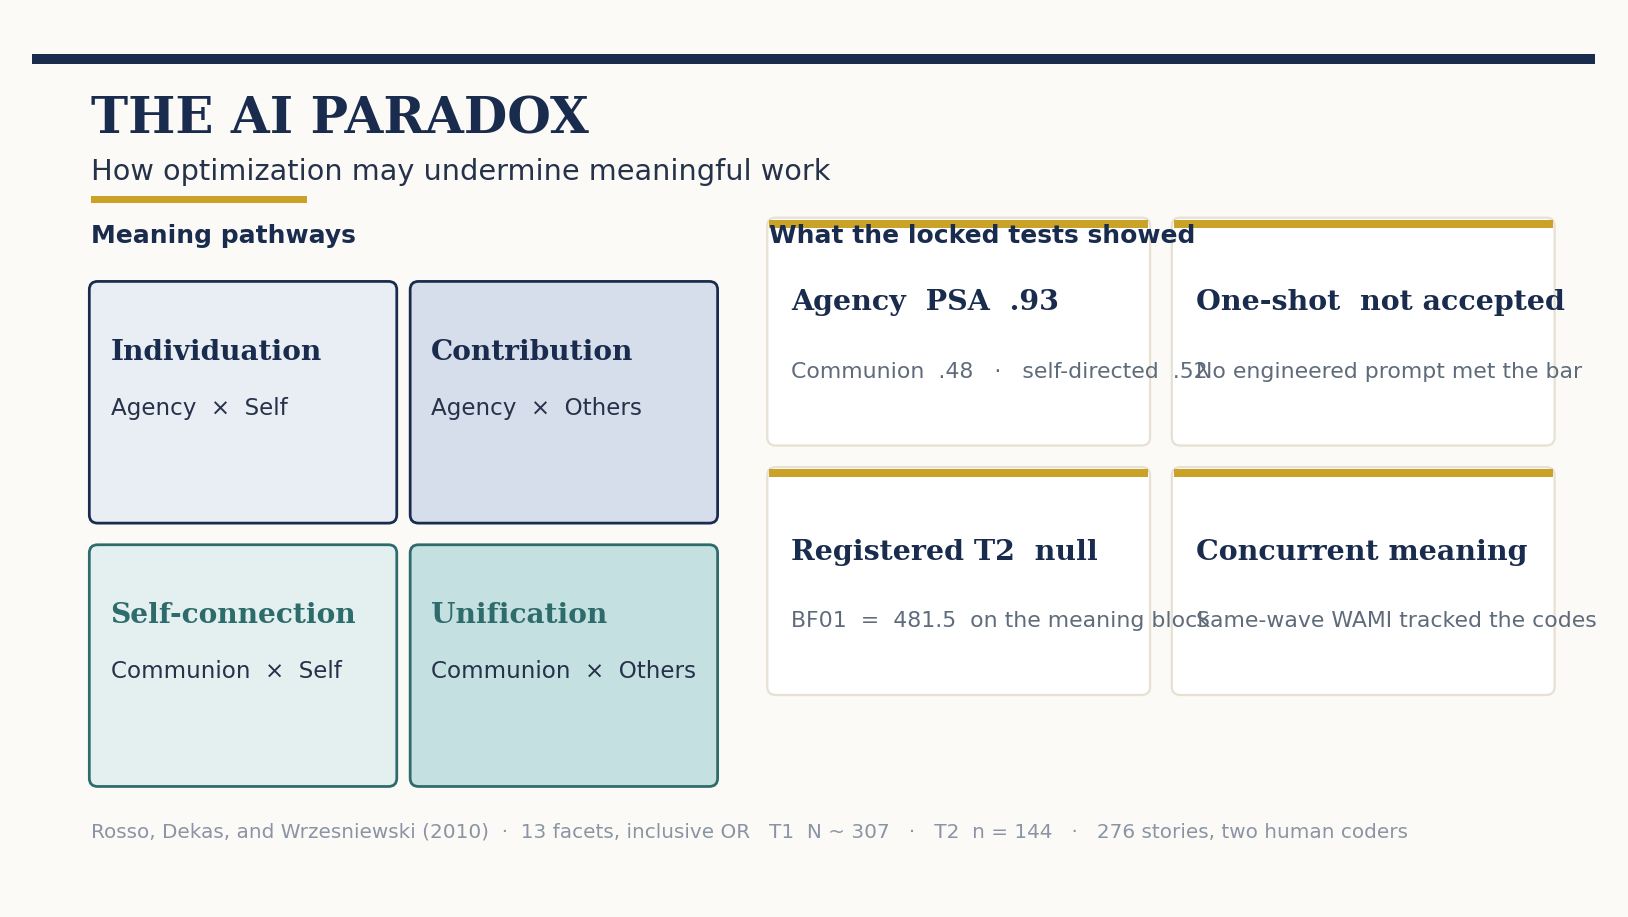
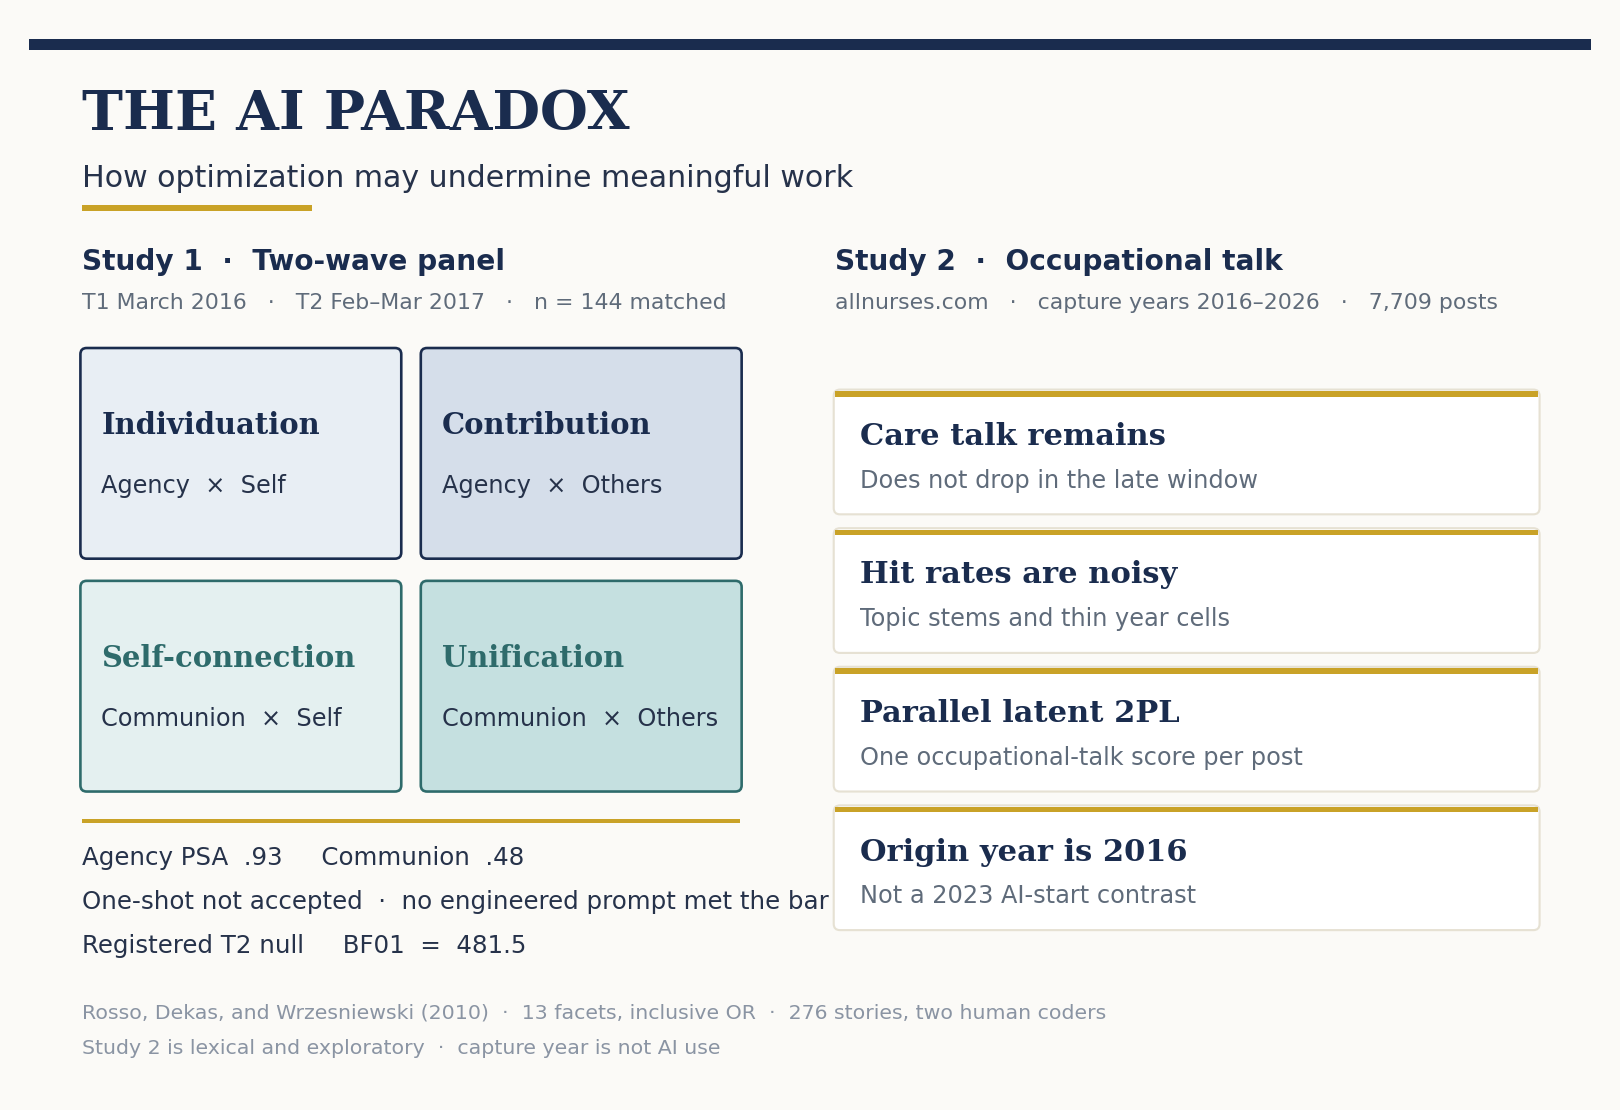
Add a figure to every project card; two-study LEC summary; AIBPS and hyperscaler-race figures

Changed region(s): [[0.0309, 0.3053, 0.9877, 0.9466], [0.0, 0.0305, 0.9877, 0.2748], [0.3704, 0.2443, 0.4321, 0.2748]]

diff --git a/assets/main.scss b/assets/main.scss
@@ -394,6 +394,8 @@ img { max-width: 100%; height: auto; }
   font-size: 0.72rem;
   line-height: 1.4;
   color: var(--muted);
+  overflow-wrap: anywhere;
+  word-break: break-word;
 }
 
 .apa-cite {
@@ -403,6 +405,8 @@ img { max-width: 100%; height: auto; }
   font-size: 0.95rem;
   line-height: 1.5;
   color: var(--ink);
+  overflow-wrap: anywhere;
+  word-break: break-word;
 }
 
 .project-figure {

diff --git a/_make_lec_feature.py b/_make_lec_feature.py
@@ -1,0 +1,147 @@
+"""Two-study summary figure for the LEC 2026 featured-project card."""
+
+from pathlib import Path
+
+import matplotlib
+
+matplotlib.use("Agg")
+import matplotlib.pyplot as plt
+from matplotlib import font_manager
+from matplotlib.patches import FancyBboxPatch, Rectangle
+
+OUT = Path(__file__).resolve().parent / "assets" / "images" / "lec2026-ai-paradox-summary.png"
+
+NAVY = "#1a2c4e"
+INK = "#26324a"
+GOLD = "#c9a227"
+MUTED = "#5f6b7a"
+FAINT = "#8a94a3"
+RULE = "#e6e1d3"
+PAPER = "#fbfaf7"
+SOFT_NAVY = "#e8eef4"
+SOFT_TEAL = "#e4f0f0"
+WHITE = "#ffffff"
+
+SERIF = font_manager.FontProperties(family="DejaVu Serif", weight="bold")
+SANS = font_manager.FontProperties(family="DejaVu Sans")
+SANS_BOLD = font_manager.FontProperties(family="DejaVu Sans", weight="bold")
+
+
+def box(ax, x, y, w, h, face, edge=None, lw=0.9):
+    ax.add_patch(
+        FancyBboxPatch(
+            (x, y),
+            w,
+            h,
+            boxstyle="round,pad=0.01,rounding_size=0.045",
+            facecolor=face,
+            edgecolor=edge or RULE,
+            linewidth=lw,
+        )
+    )
+
+
+def main() -> None:
+    W, H = 11.2, 7.6
+    fig, ax = plt.subplots(figsize=(W, H), dpi=180)
+    fig.patch.set_facecolor(PAPER)
+    ax.set_xlim(0, W)
+    ax.set_ylim(0, H)
+    ax.set_facecolor(PAPER)
+    ax.axis("off")
+    for spine in ax.spines.values():
+        spine.set_visible(False)
+
+    ax.add_patch(Rectangle((0, 7.44), W, 0.08, facecolor=NAVY, edgecolor="none"))
+    ax.text(0.38, 6.98, "THE AI PARADOX", ha="left", va="center",
+            fontsize=22, color=NAVY, fontproperties=SERIF)
+    ax.text(0.38, 6.52, "How optimization may undermine meaningful work",
+            ha="left", va="center", fontsize=12, color=INK, fontproperties=SANS)
+    ax.add_patch(Rectangle((0.38, 6.28), 1.65, 0.045, facecolor=GOLD, edgecolor="none"))
+
+    # Column headers sit well above the cards
+    ax.text(0.38, 5.92, "Study 1  ·  Two-wave panel", ha="left", va="center",
+            fontsize=11.2, color=NAVY, fontproperties=SANS_BOLD)
+    ax.text(0.38, 5.62, "T1 March 2016   ·   T2 Feb–Mar 2017   ·   n = 144 matched",
+            ha="left", va="center", fontsize=8.8, color=MUTED, fontproperties=SANS)
+
+    ax.text(5.78, 5.92, "Study 2  ·  Occupational talk", ha="left", va="center",
+            fontsize=11.2, color=NAVY, fontproperties=SANS_BOLD)
+    ax.text(5.78, 5.62, "allnurses.com   ·   capture years 2016–2026   ·   7,709 posts",
+            ha="left", va="center", fontsize=8.8, color=MUTED, fontproperties=SANS)
+
+    cells = [
+        (0.38, 3.78, SOFT_NAVY, NAVY, "Individuation", "Agency  \u00d7  Self"),
+        (2.82, 3.78, "#d5deea", NAVY, "Contribution", "Agency  \u00d7  Others"),
+        (0.38, 2.10, SOFT_TEAL, "#2e6b6b", "Self-connection", "Communion  \u00d7  Self"),
+        (2.82, 2.10, "#c5e0e0", "#2e6b6b", "Unification", "Communion  \u00d7  Others"),
+    ]
+    for x, y, face, edge, title, sub in cells:
+        box(ax, x, y, 2.28, 1.50, face, edge, lw=1.05)
+        ax.text(x + 0.14, y + 0.96, title, ha="left", va="center",
+                fontsize=11.6, color=edge, fontproperties=SERIF)
+        ax.text(x + 0.14, y + 0.52, sub, ha="left", va="center",
+                fontsize=9.6, color=INK, fontproperties=SANS)
+
+    # Study 1 locked results: sit between the 2x2 and the footer, gold rule above
+    ax.add_patch(Rectangle((0.38, 1.86), 4.72, 0.03, facecolor=GOLD, edgecolor="none"))
+    s1 = [
+        (1.62, "Agency PSA  .93     Communion  .48"),
+        (1.30, "One-shot not accepted  \u00b7  no engineered prompt met the bar"),
+        (0.98, "Registered T2 null     BF01  =  481.5"),
+    ]
+    for y, line in s1:
+        ax.text(0.38, y, line, ha="left", va="center",
+                fontsize=9.8, color=INK, fontproperties=SANS)
+
+    facts = [
+        (4.55, "Care language is still present late in the series"),
+        (3.55, "Hit rates are noisy  ·  topic stems, thin cells"),
+        (2.55, "Parallel 2PL  ·  one latent score per post"),
+        (1.55, "2016 is the origin year  ·  not a 2023 cut"),
+    ]
+    for y, (title, sub) in zip(
+        (4.10, 3.10, 2.10, 1.10),
+        (
+            ("Care talk remains", "Does not drop in the late window"),
+            ("Hit rates are noisy", "Topic stems and thin year cells"),
+            ("Parallel latent 2PL", "One occupational-talk score per post"),
+            ("Origin year is 2016", "Not a 2023 AI-start contrast"),
+        ),
+    ):
+        box(ax, 5.78, y, 5.04, 0.88, WHITE, RULE, lw=0.85)
+        ax.add_patch(Rectangle((5.78, y + 0.84), 5.04, 0.04, facecolor=GOLD, edgecolor="none"))
+        ax.text(5.96, y + 0.56, title, ha="left", va="center",
+                fontsize=12.2, color=NAVY, fontproperties=SERIF)
+        ax.text(5.96, y + 0.24, sub, ha="left", va="center",
+                fontsize=9.6, color=MUTED, fontproperties=SANS)
+
+    ax.text(
+        0.38,
+        0.50,
+        "Rosso, Dekas, and Wrzesniewski (2010)  ·  13 facets, inclusive OR  ·  276 stories, two human coders",
+        ha="left",
+        va="center",
+        fontsize=8.2,
+        color=FAINT,
+        fontproperties=SANS,
+    )
+    ax.text(
+        0.38,
+        0.24,
+        "Study 2 is lexical and exploratory  ·  capture year is not AI use",
+        ha="left",
+        va="center",
+        fontsize=8.2,
+        color=FAINT,
+        fontproperties=SANS,
+    )
+
+    OUT.parent.mkdir(parents=True, exist_ok=True)
+    fig.savefig(OUT, dpi=180, facecolor=PAPER, bbox_inches="tight", pad_inches=0.16)
+    plt.close(fig)
+    print("Wrote", OUT)
+
+
+if __name__ == "__main__":
+    main()

diff --git a/_make_aibps_feature.py b/_make_aibps_feature.py
@@ -1,0 +1,123 @@
+"""Summary figure for the AI Bubble Pressure Score project card."""
+
+from pathlib import Path
+
+import matplotlib
+
+matplotlib.use("Agg")
+import matplotlib.pyplot as plt
+from matplotlib import font_manager
+from matplotlib.patches import FancyArrowPatch, FancyBboxPatch, Rectangle
+
+OUT = Path(__file__).resolve().parent / "assets" / "images" / "aibps-summary.png"
+
+NAVY = "#1a2c4e"
+INK = "#26324a"
+GOLD = "#c9a227"
+MUTED = "#5f6b7a"
+FAINT = "#8a94a3"
+RULE = "#e6e1d3"
+PAPER = "#fbfaf7"
+WHITE = "#ffffff"
+SOFT_NAVY = "#e8eef4"
+SOFT_TEAL = "#e4f0f0"
+
+SERIF = font_manager.FontProperties(family="DejaVu Serif", weight="bold")
+SANS = font_manager.FontProperties(family="DejaVu Sans")
+SANS_BOLD = font_manager.FontProperties(family="DejaVu Sans", weight="bold")
+
+
+def box(ax, x, y, w, h, face, edge=None, lw=0.9):
+    ax.add_patch(
+        FancyBboxPatch(
+            (x, y), w, h,
+            boxstyle="round,pad=0.01,rounding_size=0.045",
+            facecolor=face, edgecolor=edge or RULE, linewidth=lw,
+        )
+    )
+
+
+def main() -> None:
+    W, H = 11.2, 7.6
+    fig, ax = plt.subplots(figsize=(W, H), dpi=180)
+    fig.patch.set_facecolor(PAPER)
+    ax.set_xlim(0, W)
+    ax.set_ylim(0, H)
+    ax.set_facecolor(PAPER)
+    ax.axis("off")
+
+    ax.add_patch(Rectangle((0, 7.44), W, 0.08, facecolor=NAVY, edgecolor="none"))
+    ax.text(0.38, 6.98, "AI BUBBLE PRESSURE SCORE", ha="left", va="center",
+            fontsize=22, color=NAVY, fontproperties=SERIF)
+    ax.text(0.38, 6.52, "How stretched is the AI ecosystem relative to its own history?",
+            ha="left", va="center", fontsize=12, color=INK, fontproperties=SANS)
+    ax.add_patch(Rectangle((0.38, 6.28), 1.65, 0.045, facecolor=GOLD, edgecolor="none"))
+
+    ax.text(0.38, 5.92, "Six pillars  ·  equal weights, configurable", ha="left", va="center",
+            fontsize=11.2, color=NAVY, fontproperties=SANS_BOLD)
+    ax.text(0.38, 5.62, "Each pillar is scaled 0–100 before aggregation",
+            ha="left", va="center", fontsize=8.8, color=MUTED, fontproperties=SANS)
+
+    pillars = [
+        ("Market", "SOXX  ·  QQQ  ·  AI basket", SOFT_NAVY, NAVY),
+        ("Credit", "HY and IG credit spreads", SOFT_NAVY, NAVY),
+        ("Capex", "Hyperscaler and fab cycles", SOFT_NAVY, NAVY),
+        ("Infrastructure", "Power, grid, cooling", SOFT_TEAL, "#2e6b6b"),
+        ("Adoption", "Enterprise and cloud uptake", SOFT_TEAL, "#2e6b6b"),
+        ("Sentiment", "News and text hype", SOFT_TEAL, "#2e6b6b"),
+    ]
+    x0, y_top, w, h, gap = 0.38, 4.30, 2.28, 1.10, 0.16
+    for i, (title, sub, face, edge) in enumerate(pillars):
+        col, row = i % 2, i // 2
+        x = x0 + col * (w + gap)
+        y = y_top - row * (h + gap)
+        box(ax, x, y, w, h, face, edge, lw=1.05)
+        ax.text(x + 0.14, y + 0.70, title, ha="left", va="center",
+                fontsize=11.4, color=edge, fontproperties=SERIF)
+        ax.text(x + 0.14, y + 0.32, sub, ha="left", va="center",
+                fontsize=8.4, color=INK, fontproperties=SANS)
+
+    # Arrow from pillars to the composite
+    ax.add_patch(FancyArrowPatch((5.08, 3.20), (5.66, 3.20),
+                                 arrowstyle="-|>", mutation_scale=16,
+                                 color=MUTED, linewidth=1.2))
+
+    # Right column: pipeline steps
+    ax.text(5.78, 5.92, "From raw series to one composite", ha="left", va="center",
+            fontsize=11.2, color=NAVY, fontproperties=SANS_BOLD)
+    ax.text(5.78, 5.62, "Daily refresh via GitHub Actions  ·  Streamlit dashboard",
+            ha="left", va="center", fontsize=8.8, color=MUTED, fontproperties=SANS)
+
+    steps = [
+        ("Ingest", "yfinance, FRED, manual capex CSVs"),
+        ("Normalize", "Rolling z-scores, percentiles, sigmoid to 0–100"),
+        ("Aggregate", "Weighted mean across pillars, monthly index"),
+        ("Interpret", "Low <30  ·  healthy 30–60  ·  frothy 60–80  ·  critical >80"),
+    ]
+    for y, (title, sub) in zip((4.10, 3.10, 2.10, 1.10), steps):
+        box(ax, 5.78, y, 5.04, 0.88, WHITE, RULE, lw=0.85)
+        ax.add_patch(Rectangle((5.78, y + 0.84), 5.04, 0.04, facecolor=GOLD, edgecolor="none"))
+        ax.text(5.96, y + 0.56, title, ha="left", va="center",
+                fontsize=12.2, color=NAVY, fontproperties=SERIF)
+        ax.text(5.96, y + 0.24, sub, ha="left", va="center",
+                fontsize=9.0, color=MUTED, fontproperties=SANS)
+
+    ax.add_patch(Rectangle((0.38, 1.50), 4.72, 0.03, facecolor=GOLD, edgecolor="none"))
+    ax.text(0.38, 1.24, "Composite reads pressure, not price direction",
+            ha="left", va="center", fontsize=9.8, color=INK, fontproperties=SANS)
+    ax.text(0.38, 0.94, "Reference regimes: fiber 1999  ·  shale 2012  ·  current AI capex cycle",
+            ha="left", va="center", fontsize=9.8, color=INK, fontproperties=SANS)
+
+    ax.text(0.38, 0.40,
+            "Descriptive index, not investment advice  ·  sentiment layer is API-ready with synthetic fallback",
+            ha="left", va="center", fontsize=8.2, color=FAINT, fontproperties=SANS)
+
+    OUT.parent.mkdir(parents=True, exist_ok=True)
+    fig.savefig(OUT, dpi=180, facecolor=PAPER, bbox_inches="tight", pad_inches=0.16)
+    plt.close(fig)
+    print("Wrote", OUT)
+
+
+if __name__ == "__main__":
+    main()
+

diff --git a/projects.md b/projects.md
@@ -21,9 +21,9 @@ Several of these projects extend my research themes in [leadership, well-being, 
 
 <figure class="project-figure">
   <a href="/lec-2026/">
-    <img src="/assets/images/lec2026-ai-paradox-summary.png" alt="Summary figure for The AI Paradox: four Rosso meaning pathways beside locked-test results. Agency positive specific agreement was .93; communion was .48. No engineered prompt met the acceptance bar. The registered Time 2 meaning block favored the null, BF01 = 481.5. Concurrent WAMI tracked the human codes." width="1120" height="620">
+    <img src="/assets/images/lec2026-ai-paradox-summary.png" alt="Summary figure for The AI Paradox. Study 1, two-wave panel: four Rosso meaning pathways; agency positive specific agreement .93, communion .48; no engineered prompt met the acceptance bar; registered Time 2 null, BF01 = 481.5. Study 2, occupational talk on allnurses.com 2016 to 2026, 7,709 posts: care talk remains, hit rates are noisy, parallel latent 2PL score, 2016 origin year." width="1120" height="620">
   </a>
-  <figcaption>Four pathways and the locked tests. Click through to the packet.</figcaption>
+  <figcaption>Study 1 pathways and locked tests beside Study 2 occupational talk, 2016–2026. Click through to the packet.</figcaption>
 </figure>
 
 Board session packet for *Shaping the Future of People Analytics*: how optimization can strip the meaning that keeps helping work staffed, and what it takes to measure that meaning without fooling yourself. Two-wave field study plus a locked language-model coding pipeline. Human codes stayed on the map; no engineered prompt met the acceptance bar; the sealed holdout was not opened.
@@ -42,12 +42,26 @@ A year-over-year, reproducible collection of solutions and teaching cases for th
 
 ### 2026 — Automated Meta-Analytic Coding (team: *One Hot Key*)
 
+<figure class="project-figure">
+  <a href="https://github.com/mjmonnot/siop-ml-competitions/tree/main/2026-meta-analysis">
+    <img src="/assets/images/siop2026-six-gates.png" alt="Six-gate cascading pipeline from the SIOP 2026 presentation: PDF acquisition, layout extraction, regex plus phi4 classifier, vision fallback, structured LLM extraction, imputation." width="1024" height="230">
+  </a>
+  <figcaption>Six gates from PDF to correlation table. Each gate only fires when the cheaper one before it fails.</figcaption>
+</figure>
+
 An end-to-end pipeline that extracts zero-order Pearson *r* correlations directly from published I-O psychology PDFs, using a four-tier cascade (pdfplumber → Docling table ML → qwen2.5-VL vision model → regex + phi4) running entirely on local models. Built as a solo-plus-AI-agents experiment — a one-person team competing against teams of researchers and graduate students. Dev-set MSE **0.013641** (6th of 24); test set submitted April 2026.
 
 🔗 [Project folder →](https://github.com/mjmonnot/siop-ml-competitions/tree/main/2026-meta-analysis) · [SIOP 2026 deck (PDF)](https://github.com/mjmonnot/siop-ml-competitions/blob/main/2026-meta-analysis/docs/one_hot_key_siop_2026.pdf) · [SIOP 2026 presentation video (MP4)](https://github.com/mjmonnot/siop-ml-competitions/raw/main/2026-meta-analysis/media/One_Hot_Key_ML_Competition_Presentation_1080p.mp4)  
 *Relevant resources:* [Docling (document & table extraction)](https://github.com/docling-project/docling) · [PRISMA — systematic review & meta-analysis reporting](https://www.prisma-statement.org/)
 
 ### 2019 — Personality Prediction from Text (Post-Hoc Winning Solution)
+
+<figure class="project-figure">
+  <a href="https://github.com/mjmonnot/siop-ml-competitions/blob/main/2019-personality-from-text/SOLUTION.md">
+    <img src="/assets/images/siop2019-roleplay-steps.png" alt="Four-step role-play questionnaire pipeline: read the five text answers, role-play the persona, answer 30 BFI-2 items in character, reverse-score and aggregate to OCEAN." width="900" height="660">
+  </a>
+  <figcaption>Role-play scoring: the model answers a BFI-2 questionnaire as the respondent, then the items are scored like any inventory.</figcaption>
+</figure>
 
 A post-hoc solution to the 2019 competition — predicting Big Five trait scores from five short open-ended responses — that beats the original leaderboard by a wide margin under a strict, leakage-safe protocol (fit on Train only, select on Dev, touch the private Test once).
 
@@ -102,6 +116,13 @@ Python · Pandas · NumPy · scikit-learn pipelines · cross-validation · regul
 
 [View on GitHub →](https://github.com/mjmonnot/LPAmidus)
 
+<figure class="project-figure">
+  <a href="https://osf.io/preprints/psyarxiv/9r6hd">
+    <img src="/assets/images/midus-figure-1a.png" alt="Figure 1A from the MIDUS preprint: latent state means on anchored factor scores for four personality profiles across neuroticism, extraversion, openness, agreeableness, conscientiousness, and agency. Resilient 36 percent, Distressed 30 percent, Reserved 29 percent, Antagonistic 5 percent." width="880" height="460">
+  </a>
+  <figcaption>Figure 1A from the preprint: the four replicated profiles on six anchored trait scores.</figcaption>
+</figure>
+
 **Overview:**  
 A fully reproducible, longitudinal study of person-centered Big Five personality profiles and how they relate to future-of-work skills across midlife, using the MIDUS (Midlife in the United States) national panel (*N* = 7,108 over ~20 years) with independent replication in the MIDUS Refresher (*N* = 3,577). Where the SIOP 2019 project predicts traits from text, this project asks what trait *configurations* mean — and, crucially, whether people move between them over two decades — connecting directly to my research on [well-being and meaningful work](/themes/leadership-and-wellbeing.html). Framed around self-determination theory and the psychological resources workers need to develop and retain AI-era skills.
 
@@ -123,7 +144,14 @@ R · latent profile analysis (LPA) and latent transition analysis via a joint la
 
 ## AI Bubble Pressure Score (AIBPS)
 
-[View on GitHub →](https://github.com/mjmonnot/aibps-v0-1)
+[View on GitHub →](https://github.com/mjmonnot/aibps-v0-1) · [Live dashboard →](https://aibps-v0-1.streamlit.app)
+
+<figure class="project-figure">
+  <a href="https://github.com/mjmonnot/aibps-v0-1">
+    <img src="/assets/images/aibps-summary.png" alt="Summary figure for the AI Bubble Pressure Score: six pillars (market, credit, capex, infrastructure, adoption, sentiment) feed a four-step pipeline of ingest, normalize, aggregate, and interpret, producing a 0 to 100 composite with low, healthy, frothy, and critical bands." width="1120" height="620">
+  </a>
+  <figcaption>Six pillars, one 0–100 composite. Click through to the repository.</figcaption>
+</figure>
 
 **Overview:**  
 An ongoing project analyzing sentiment, valuation, and market momentum to estimate "bubble pressure" in the AI sector. The AIBPS integrates multiple data layers—equity performance, ETF flows, and public sentiment—to quantify how narrative intensity and capital inflows co-evolve across AI-related assets.
@@ -145,6 +173,13 @@ Python · Pandas · NumPy · Matplotlib · scikit-learn · GitHub Actions · CSV
 ---
 
 ## AI Hyperscaler Market-Cap Race
+
+<figure class="project-figure">
+  <a href="https://mjmonnot.github.io/ai-hyperscalers-marketcap-race/">
+    <img src="/assets/images/hyperscaler-race-2026-09.png" alt="Final frame of the AI hyperscalers market-cap bar chart race, September 2026: NVIDIA leads above 5 trillion dollars, followed by Alphabet 4,162 billion, Microsoft 3,833, Amazon 2,686, TSMC 2,337, Meta 1,915, and AMD 1,028." width="1730" height="990">
+  </a>
+  <figcaption>Final frame, September 2026. Click through to run the race.</figcaption>
+</figure>
 
 A companion data-visualization piece: an animated D3.js bar chart race tracking the monthly market capitalization of leading AI hyperscalers and infrastructure firms over time, auto-updated through a GitHub Actions pipeline with no backend.
 

diff --git a/index.md b/index.md
@@ -56,7 +56,7 @@ permalink: /
             <a class="feature-figure-link" href="{{ "/assets/images/lec2026-ai-paradox-summary.png" | relative_url }}" data-lightbox aria-label="Enlarge the AI Paradox summary figure">
               <img src="{{ "/assets/images/lec2026-ai-paradox-summary.png" | relative_url }}" alt="Summary figure for The AI Paradox: four Rosso meaning pathways beside locked-test results. Agency positive specific agreement was .93; communion was .48. No engineered prompt met the acceptance bar. The registered Time 2 meaning block favored the null, BF01 = 481.5. Concurrent WAMI tracked the human codes." width="1120" height="620" loading="lazy">
             </a>
-            <figcaption>Four pathways, four locked results &mdash; click the title for the packet <span class="feature-figure-hint">· click to enlarge</span></figcaption>
+            <figcaption>Study 1 pathways and locked tests, Study 2 occupational talk 2016&ndash;2026 &mdash; click the title for the packet <span class="feature-figure-hint">· click to enlarge</span></figcaption>
           </figure>
           <p class="feature-desc">A two-wave helping-profession study and a locked language-model coding pipeline. Human codes stayed on the map. No engineered prompt met the acceptance bar. The sealed holdout was not opened. <a href="/lec-2026/">Open the digital goody bag &rarr;</a></p>
           <div class="feature-stat">
